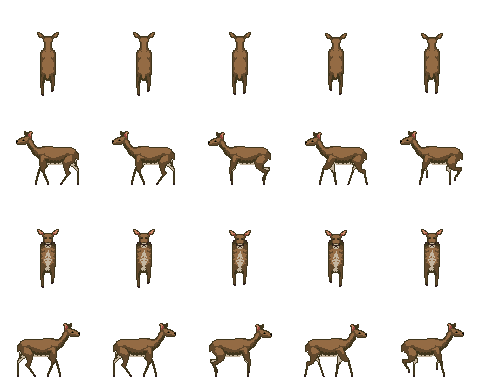
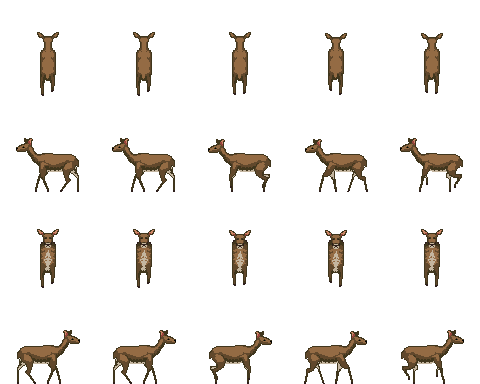
Arrows fly over grass, beasts stand and are pointed at by their picture, a real bed (v0.14.1)
- Tall grass had become opaque (a plant's default height counted): arrows
  fell at the first tuft. Plants hide only when solid or marked opaque;
  bushes are lower (0.45 storey) and marked so: an arrow flies over them,
  something low behind them stays hidden.
- Beings are pointed at by the opaque part of their picture, not by their
  body's height (a hare took the grass under it); the arrow goes at them.
- Animal sheets: every row of frames stands on the ground (a fox sideways,
  the hare, a deer sideways hung in the air).
- A bed of its own make (frame, headboard, mattress, pillow, blanket), a
  stone forge with a chimney and a glowing mouth, a squared column; one
  asleep lies flat along the bed on its mattress, head to the headboard,
  nothing in the hands.
- The land round a village adds to what it makes and needs.
Version 0.14.1. Dev runs: --shoot_debug.

diff --git a/tools/art/import_lpc_animals.py b/tools/art/import_lpc_animals.py
@@ -217,6 +217,20 @@ def build(kind, spec, sheet):
                     feet = max(feet, size - img.height + box[3] - 1)
         out[n] = [x0, 0, size, count[n]]
         x0 += count[n] * size
+    # Every row of an animation stands on the cell's bottom (the author,
+    # 28.10.2026: a fox walking sideways and the hare hung in the air — their
+    # sources draw some rows higher than others): a row is moved down as a
+    # whole, so its frames keep their steps.
+    for n in names:
+        x, _, _, c = out[n]
+        for r in range(4):
+            strip = atlas.crop((x, r * size, x + c * size, (r + 1) * size))
+            box = strip.getchannel("A").point(lambda a: 255 if a > 40 else 0).getbbox()
+            if box and box[3] < size:
+                moved = Image.new("RGBA", strip.size)
+                moved.alpha_composite(strip, (0, size - box[3]))
+                atlas.paste(moved, (x, r * size))
+    feet = size - 1
     return atlas, out, size, feet
 
 
